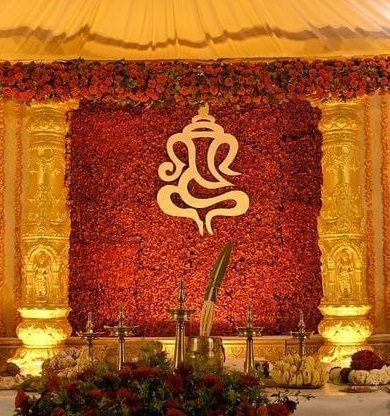
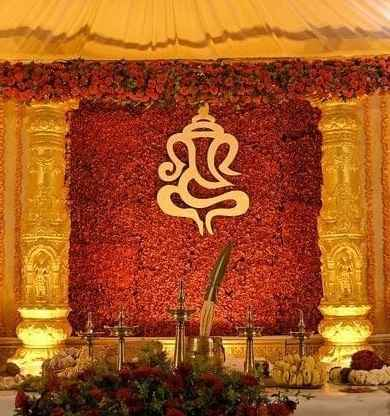
compressed images

diff --git a/index.html b/index.html
@@ -212,7 +212,7 @@
 				<div class="col-md-12 col-md-offset-0">
 					<ul class="timeline animate-box">
 						<li class="animate-box">
-							<div class="timeline-badge" style="background-image:url(images/couple-1.jpg);"></div>
+							<div class="timeline-badge" style="background-image:url(images/couple-1.jpeg);"></div>
 							<div class="timeline-panel">
 								<div class="timeline-heading">
 									<h3 class="timeline-title">First We Meet</h3>
@@ -234,7 +234,7 @@
 							</div>
 						</li>
 						<li class="animate-box">
-							<div class="timeline-badge" style="background-image:url(images/couple-3.jpg);"></div>
+							<div class="timeline-badge" style="background-image:url(images/couple-3.jpeg);"></div>
 							<div class="timeline-panel">
 								<div class="timeline-heading">
 									<h3 class="timeline-title">Many more to come...</h3>
@@ -343,7 +343,7 @@
 	</div>
 
 
-	<div id="fh5co-started" class="fh5co-bg" style="background-image:url(images/img_bg_4.jpg);">
+	<div id="fh5co-started" class="fh5co-bg" style="background-image:url(images/img_bg_4.jpeg);">
 		<div class="overlay"></div>
 		<div class="container">
 			<div class="row">
